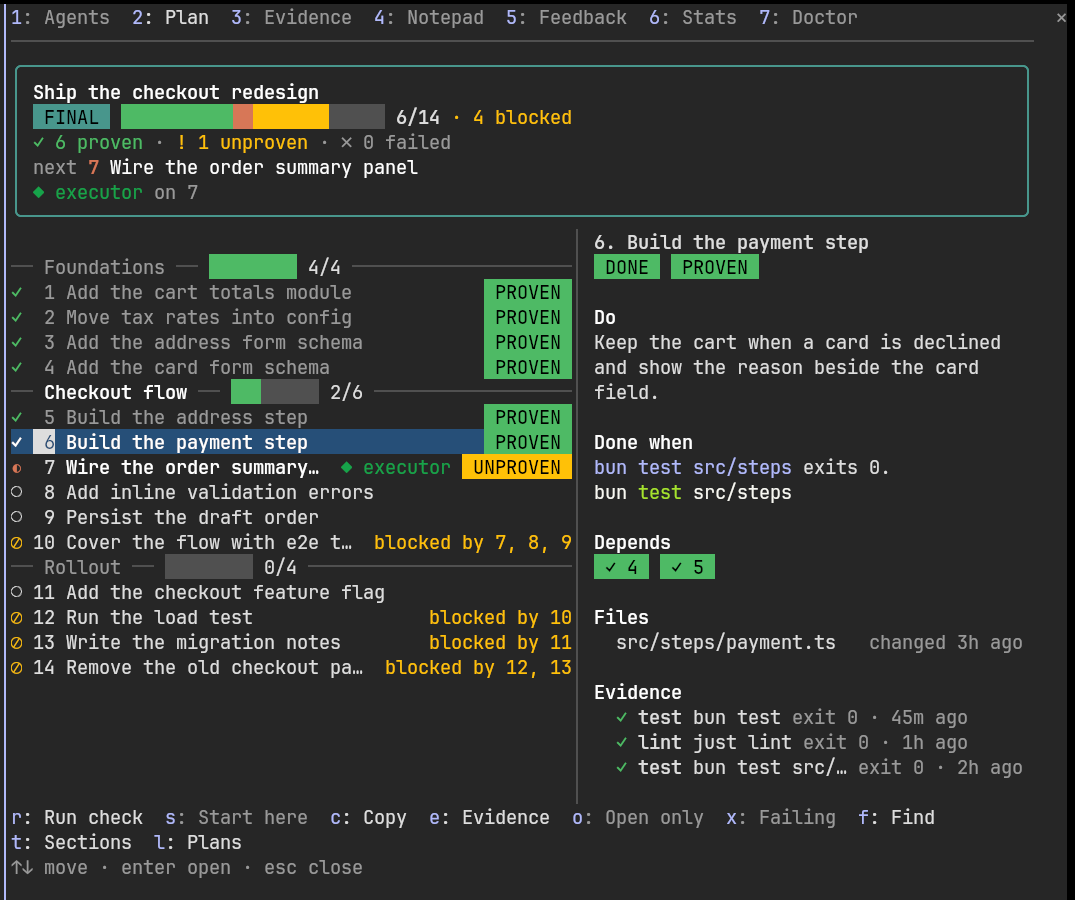
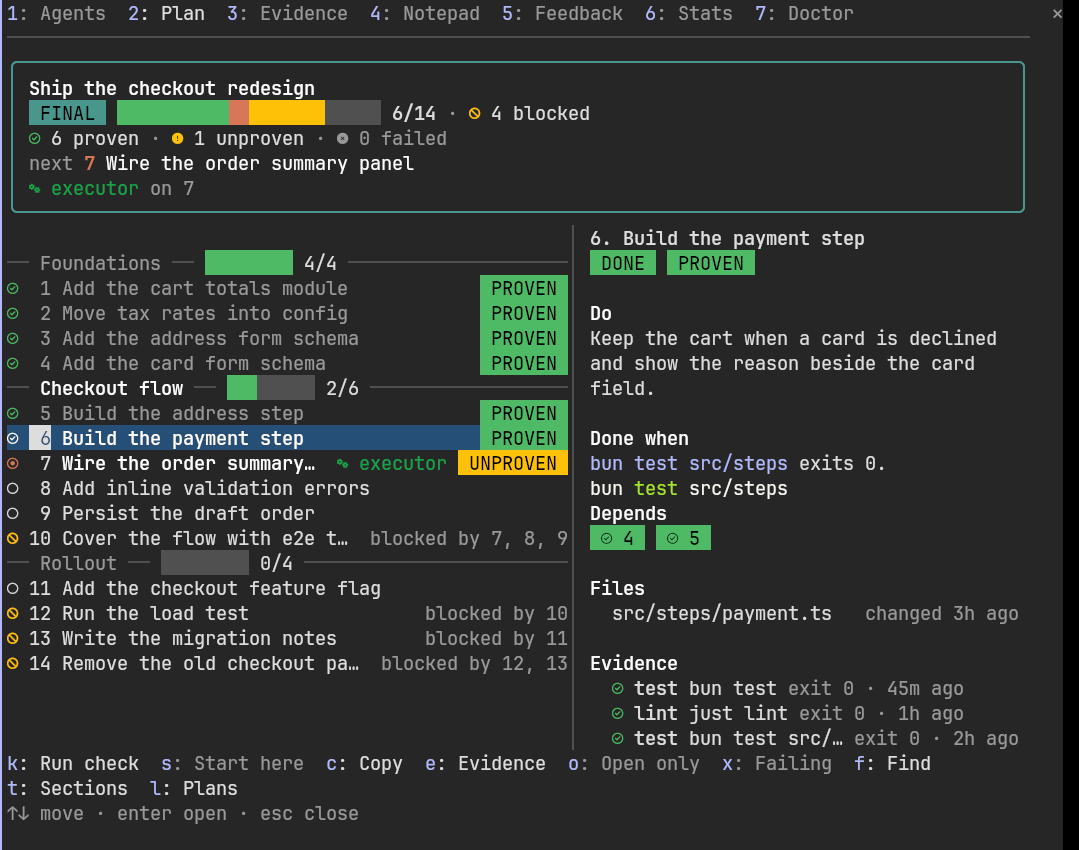
docs(screens): recapture the README screens on the redesigned UI
Every still and animation is recaptured with the Nerd Font glyphs and
the redesigned Agents and Evidence tabs, and the alt text follows them.
The delegate clip's target is the current tool row, and the tour clip
waits for the Evidence card's sentence-case title.

Changed region(s): [[0.0, 0.0, 1.0, 1.0], [0.2456, 0.9482, 0.3377, 0.9788], [0.9209, 0.2141, 0.9516, 0.2447]]

diff --git a/scripts/docs/screenshots.ts b/scripts/docs/screenshots.ts
@@ -388,7 +388,7 @@ export const CLIPS: readonly Clip[] = [
       { type: "/omca" },
       { key: "Enter" },
       { until: has("1: Agents"), mark: "pane", hold: 0 },
-      { until: has("just watch summary", "just watch draft", "just watch flags"), mark: "lanes", hold: 6_000, targets: { "tool-strip": /\S+ \S Bash just watch \w+/ } },
+      { until: has("just watch summary", "just watch draft", "just watch flags"), mark: "lanes", hold: 6_000, targets: { "tool-row": /\S Bash just watch \w+/ } },
     ],
   },
   { name: "clip-board", format: "clip", cols: CLIP_COLS, rows: CLIP_ROWS, script: PLAN_SCRIPT, steps: BOARD_STEPS },
@@ -473,7 +473,7 @@ export const CLIPS: readonly Clip[] = [
       { key: "2", gap: 0 },
       { until: has("Ship the checkout redesign", "PROVEN"), mark: "plan-tab" },
       { key: "3", gap: 0 },
-      { until: has("FINAL VERIFICATION"), mark: "evidence-tab" },
+      { until: has("Final verification"), mark: "evidence-tab" },
       { key: "4", gap: 0 },
       { until: has("Learnings · "), mark: "notepad-tab" },
       { key: "6", gap: 0 },

diff --git a/scripts/docs/screenshots.spec.ts b/scripts/docs/screenshots.spec.ts
@@ -72,7 +72,7 @@ describe("CLIPS", () => {
     expect(marks(clip("clip-plan"))).toEqual(["cmd-typed", "dialog", "key-choice", "plan-written"]);
     expect(targets(clip("clip-plan"))).toEqual(["question"]);
     expect(marks(clip("clip-delegate"))).toEqual(["cmd-typed", "spawned", "pane", "lanes"]);
-    expect(targets(clip("clip-delegate"))).toEqual(["tool-strip"]);
+    expect(targets(clip("clip-delegate"))).toEqual(["tool-row"]);
     for (const name of ["clip-board", "clip-board-light"]) {
       expect(marks(clip(name))).toEqual(["cmd-typed", "board", "focus-moved", "task-open"]);
       expect(targets(clip(name))).toEqual(["proven-chip", "unproven-chip"]);

diff --git a/README.md b/README.md
@@ -48,7 +48,7 @@ The band above the prompt shows the bound plan's progress, the next open task, h
 proven, unproven and failed, a verification whose evidence was not logged, and how many agents
 are running. The numbered buttons fill the prompt with the next step.
 
-<img src=".github/assets/band.png" width="680" alt="The band above the prompt reads 6/14, next 7 Wire the order summary panel, 6 proven, 1 unproven and 0 failed, warns that the evidence for just test was not logged, and counts 1 running agent, with the button 1: Log evidence below it.">
+<img src=".github/assets/band.png" width="680" alt="The band above the prompt reads 6/14, next 7 Wire the order summary panel, 6 proven and 1 unproven, warns that the evidence for just test was not logged, and counts 1 running agent, with the button 1: Log evidence below it.">
 
 `/omca plan` opens the plan board: the tasks grouped by milestone, each with its state, its proof
 and the agent working on it. A wide pane shows the focused task's detail beside the list.
@@ -58,12 +58,12 @@ and the agent working on it. A wide pane shows the focused task's detail beside 
 The Evidence tab is the proof ledger: a verdict on the plan's final verification, then every
 logged run grouped by day.
 
-<img src=".github/assets/evidence.png" width="680" alt="The Evidence tab shows the final verification for checkout-redesign as MISSING, since the last one exited 1, then fourteen runs grouped under three days, each with its time, type, exit code and command. The focused run, a manual payment smoke test, is open beside the list with its API key masked.">
+<img src=".github/assets/evidence.png" width="680" alt="The Evidence tab shows the final verification for checkout-redesign as MISSING, since the last one exited 1, with a line marking build, test, lint and manual as passing on their newest runs. Below it, fourteen runs are grouped under three days, each with its outcome, time, type and command. The focused run, a manual payment smoke test, is open beside the list with its exit code and its API key masked.">
 
 The Agents tab gives each running subagent a lane with its task, model, effort and current tool
 call, and shrinks a finished one to a line.
 
-<img src=".github/assets/agents.png" width="680" alt="The Agents tab shows two running executors, one on Wire the order summary panel and one on Persist the draft order, each with its model, effort and the watch command it is running, and one finished explore agent on a single line with the first line of its result.">
+<img src=".github/assets/agents.png" width="680" alt="The Agents tab shows two running executors, one on Wire the order summary panel and one on Persist the draft order, each with its icon, model and effort, the watch command it is running and its count of tool calls, and one finished explore agent on a single line with the first line of its result.">
 
 The guard holds a destructive shell command for your review and shows what it would touch.
 
